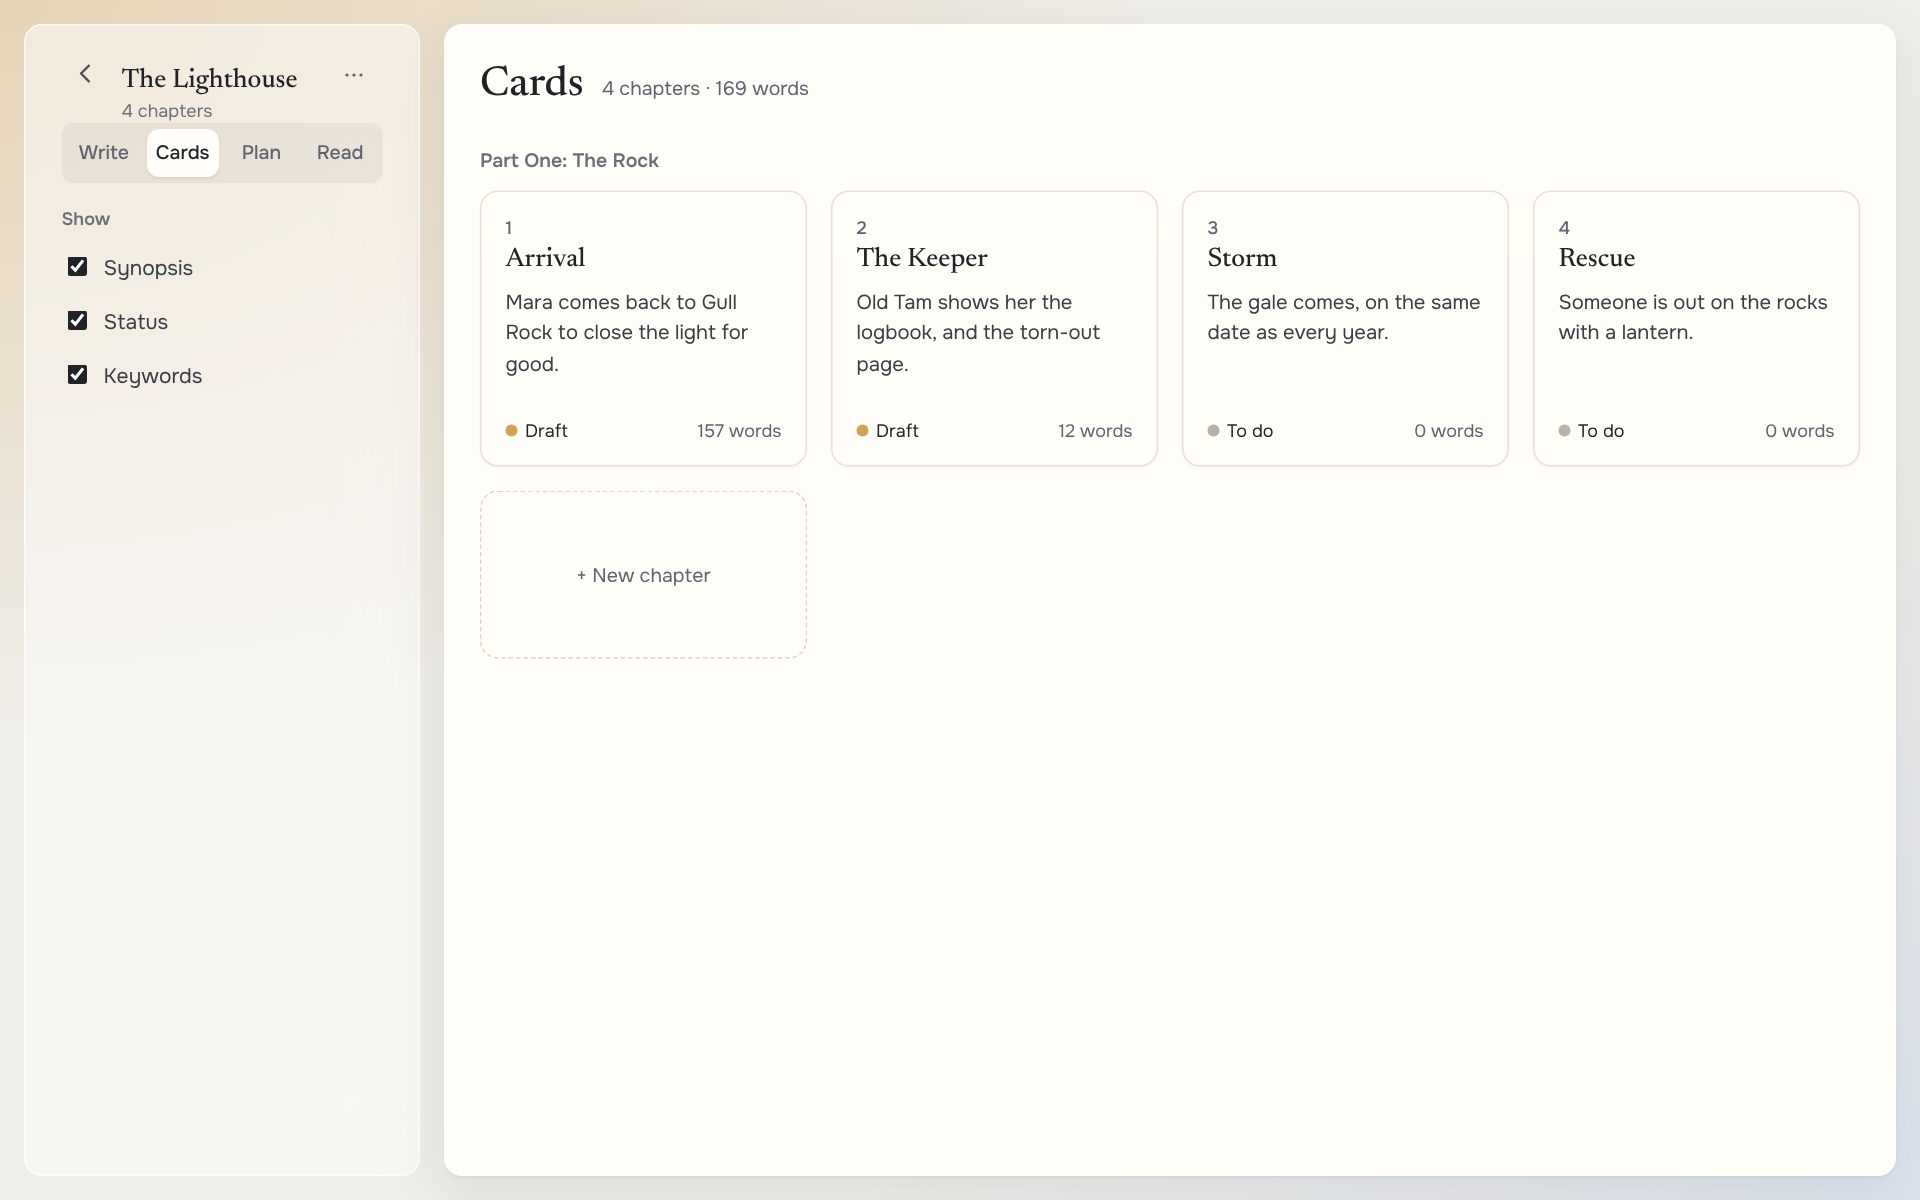
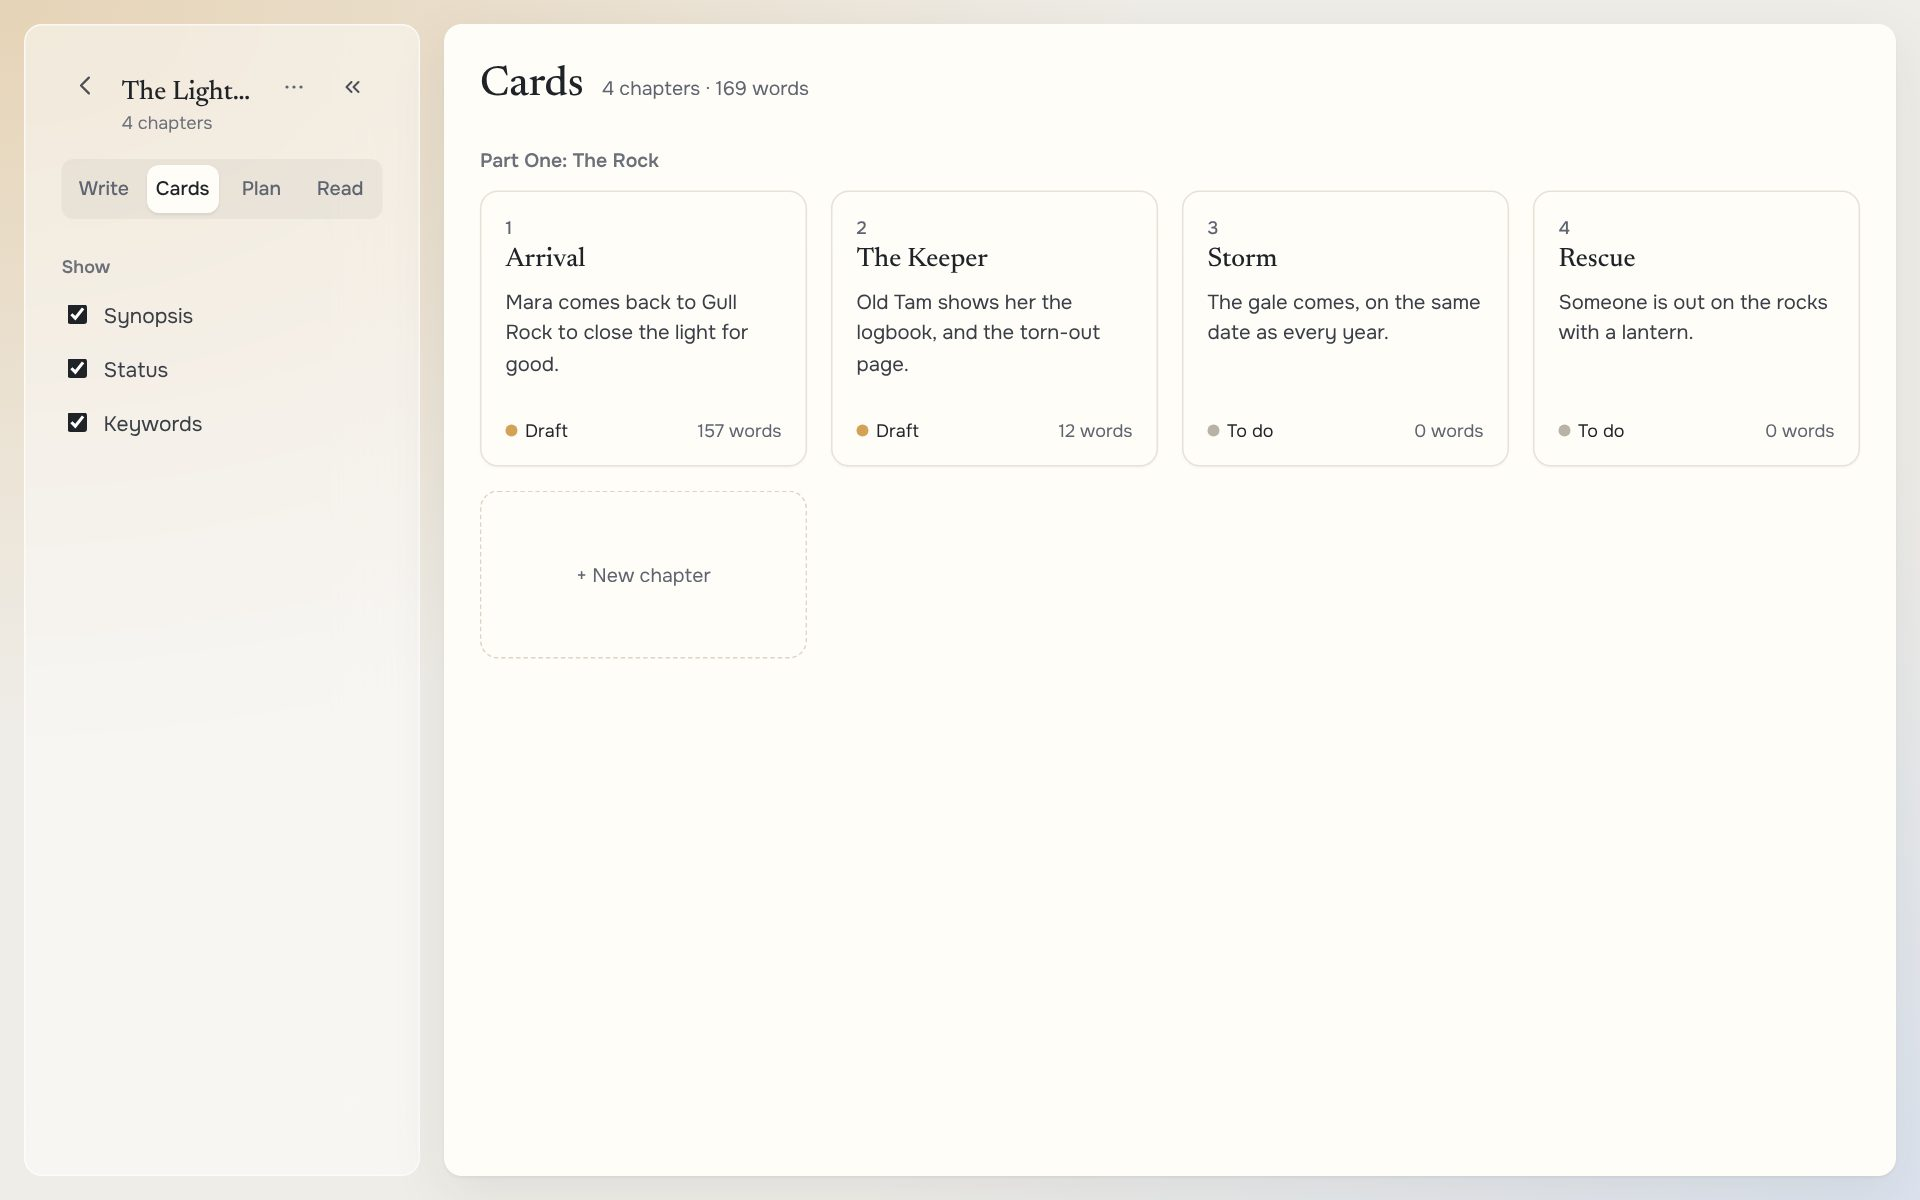
Fix tests for the new sidebar, keep Find anything's key in the search box, retake the guide's pictures
The strip's Open the sidebar brings a book's outline back too.

Claude-Session: https://claude.ai/code/session_01TSPRCvAApb82yB3Cd7pJYJ

Changed region(s): [[0.0312, 0.0617, 0.1875, 0.185], [0.0312, 0.3083, 0.0938, 0.37], [0.0312, 0.2158, 0.0938, 0.2775]]

diff --git a/app/tests/e2e/app.spec.ts b/app/tests/e2e/app.spec.ts
@@ -19,8 +19,17 @@ async function open(page: Page) {
   await expect(list(page)).toBeVisible();
 }
 
+/** Clicks New note: the full bar's button, or New → Note in the calm sidebar. */
+async function clickNewNote(page: Page) {
+  const calmNew = sidebar(page).getByRole('button', { name: 'New', exact: true });
+  if (await calmNew.count()) {
+    await calmNew.click();
+    await page.getByRole('dialog', { name: 'New' }).getByRole('button', { name: /^Note( |$)/ }).click();
+  } else await sidebar(page).getByRole('button', { name: 'New note', exact: true }).click();
+}
+
 async function newNote(page: Page, title: string, body = '') {
-  await sidebar(page).getByRole('button', { name: 'New note', exact: true }).click();
+  await clickNewNote(page);
   await expect(page.getByLabel('Title')).toBeFocused();
   await page.keyboard.type(title);
   if (body) {
@@ -1736,7 +1745,7 @@ test('pasting from a web page or Word keeps headings, lists and formatting', asy
 
 test('pasting a long piece into an empty note makes its first line the title', async ({ page }) => {
   await open(page);
-  await sidebar(page).getByRole('button', { name: 'New note', exact: true }).click();
+  await clickNewNote(page);
   await expect(page.getByLabel('Title')).toBeFocused();
   await page.keyboard.press('Enter');
   const story = 'The rain came down over the hills all night, and in the morning the river had climbed its banks and taken the old bridge with it. Nobody in the village had seen anything like it.';
@@ -1762,13 +1771,13 @@ test('pasting a long piece into an empty note makes its first line the title', a
   await expect(body.locator('h1')).toHaveText('The night the bridge went');
   await expect(body.locator('.blk')).toHaveCount(3);
   // Something short, or a first line that's a sentence, stays in the text.
-  await sidebar(page).getByRole('button', { name: 'New note', exact: true }).click();
+  await clickNewNote(page);
   await page.keyboard.press('Enter');
   await paste('.note-editor', '', `It rained all night.\n${story}`);
   await expect(page.getByLabel('Title')).toHaveValue('');
   await expect(body.locator('.blk').first()).toHaveText('It rained all night.');
   // Several lines pasted into an empty title box: the first stays there, the rest goes to the text.
-  await sidebar(page).getByRole('button', { name: 'New note', exact: true }).click();
+  await clickNewNote(page);
   await expect(page.getByLabel('Title')).toBeFocused();
   await paste('.note-title', '', 'Shopping\nEggs\nMilk');
   await expect(page.getByLabel('Title')).toHaveValue('Shopping');
@@ -5881,7 +5890,7 @@ test('the calm sidebar: Inbox, folded notebooks, search, and the menu at its foo
   const side = sidebar(page);
   // No bar across the top: search is in the sidebar, and the top bar is gone.
   await expect(page.locator('.topbar')).toHaveCount(0);
-  await expect(side.getByRole('button', { name: 'New note', exact: true })).toBeVisible();
+  await expect(side.getByRole('button', { name: 'New', exact: true })).toBeVisible();
   // The Inbox holds notes not in a notebook.
   await side.getByRole('button', { name: /^Inbox/ }).click();
   await expect(list(page).locator('h1')).toHaveText('Inbox');
@@ -5891,15 +5900,18 @@ test('the calm sidebar: Inbox, folded notebooks, search, and the menu at its foo
   await page.locator('.kicker-nb select').selectOption({ label: 'Ideas' });
   await side.getByRole('button', { name: /^Inbox/ }).click();
   await expect(list(page)).toContainText('Your inbox is clear');
-  // Notebooks fold under one row.
+  // Notebooks are listed under Organise, which folds away.
+  const organise = side.getByRole('region', { name: 'Organise' });
+  await organise.getByRole('button', { name: 'Organise' }).click();
   await expect(side.getByRole('button', { name: 'Ideas', exact: true })).toHaveCount(0);
-  await side.getByRole('button', { name: 'Notebooks', exact: true }).click();
+  await organise.getByRole('button', { name: 'Organise' }).click();
   await side.getByRole('button', { name: 'Ideas', exact: true }).click();
   await expect(list(page).locator('h1')).toHaveText('Ideas');
   // Typing in the sidebar's search filters the list; its key opens Find anything.
-  await side.getByPlaceholder('Search').fill('loose');
+  await side.getByRole('button', { name: 'Search', exact: true }).click();
+  await side.getByPlaceholder('Search notes').fill('loose');
   await expect(list(page).locator('h1')).toHaveText('Search results');
-  await side.getByPlaceholder('Search').fill('');
+  await side.getByPlaceholder('Search notes').fill('');
   await side.getByRole('button', { name: 'Find anything' }).click();
   await expect(page.getByRole('dialog').getByRole('combobox')).toBeVisible();
   await page.keyboard.press('Escape');
@@ -5998,7 +6010,7 @@ test('calm Settings, Find and a first visit, as designed', async ({ page }) => {
   // A first visit: the sidebar keeps to New note and All notes, with a word about the rest; three ways to start.
   const side = sidebar(page);
   await expect(side.getByRole('button', { name: 'Inbox' })).toHaveCount(0);
-  await expect(side).toContainText('Notebooks, tags and projects appear here once you make them.');
+  await expect(side).toContainText('Notebooks, tags and manuscripts appear here once you make them.');
   const welcome = page.getByRole('region', { name: 'Welcome' });
   await expect(welcome.getByRole('listitem')).toHaveCount(3);
   await expect(welcome.getByRole('button', { name: 'Take the two-minute tour' })).toBeVisible();
@@ -6277,7 +6289,7 @@ test.describe('on an iPad, in the calm look', () => {
     // The outline comes out beside it.
     await page.getByRole('button', { name: 'Show the outline' }).click();
     await expect(page.getByRole('region', { name: 'Outline' })).toBeVisible();
-    await page.getByRole('button', { name: 'Hide the outline' }).click();
+    await page.getByRole('region', { name: 'Chapter' }).getByRole('button', { name: 'Hide the outline' }).click();
     await expect(page.getByRole('region', { name: 'Outline' })).toHaveCount(0);
     // The inspector is a drawer at the foot.
     await page.getByRole('button', { name: 'Chapter options' }).click();

diff --git a/app/tests/e2e/drive.spec.ts b/app/tests/e2e/drive.spec.ts
@@ -69,7 +69,7 @@ test('connect Google Drive in two clicks, then a second device finds the same no
 
   await mac.keyboard.press('Escape');
   await sidebar(mac).getByRole('button', { name: 'New', exact: true }).click();
-  await mac.getByRole('dialog', { name: 'New' }).getByRole('button', { name: /^Note/ }).click();
+  await mac.getByRole('dialog', { name: 'New' }).getByRole('button', { name: /^Note( |$)/ }).click();
   await mac.keyboard.type('Hello Drive');
   await mac.keyboard.press('Enter');
   await mac.keyboard.type('Written on the Mac.');
@@ -142,7 +142,7 @@ test('keep notes in a folder on this computer: files written there, changes made
   await page.goto('/');
   await expect(page.getByRole('navigation', { name: 'Notebooks' })).toBeVisible();
   await sidebar(page).getByRole('button', { name: 'New', exact: true }).click();
-  await page.getByRole('dialog', { name: 'New' }).getByRole('button', { name: /^Note/ }).click();
+  await page.getByRole('dialog', { name: 'New' }).getByRole('button', { name: /^Note( |$)/ }).click();
   await page.keyboard.type('Harbour');
   await page.keyboard.press('Enter');
   await page.keyboard.type('The boats come in at dusk.');
@@ -204,7 +204,7 @@ test('closing the tab before the changes have synced asks first', async ({ brows
   expect(await asks()).toBe(false);
 
   await sidebar(page).getByRole('button', { name: 'New', exact: true }).click();
-  await page.getByRole('dialog', { name: 'New' }).getByRole('button', { name: /^Note/ }).click();
+  await page.getByRole('dialog', { name: 'New' }).getByRole('button', { name: /^Note( |$)/ }).click();
   await page.keyboard.type('Not yet synced');
   expect(await asks()).toBe(true);
   // Asking also syncs straight away, so once it's in the folder closing is fine again.
@@ -223,7 +223,7 @@ test('“Syncing…” shows while changes are on their way, then “Synced”, 
   const note = page.locator('.sync-note');
   // With the sidebar showing, its foot says it, so the note keeps out of the way.
   await sidebar(page).getByRole('button', { name: 'New', exact: true }).click();
-  await page.getByRole('dialog', { name: 'New' }).getByRole('button', { name: /^Note/ }).click();
+  await page.getByRole('dialog', { name: 'New' }).getByRole('button', { name: /^Note( |$)/ }).click();
   await page.keyboard.type('On its way');
   await expect(sidebar(page).locator('.side-foot')).toContainText('Syncing…');
   await expect(note).toHaveCount(0);
@@ -246,7 +246,7 @@ test('share a note with readers as a Google Doc, then bring their comments back 
   const drive = new FakeDrive();
   const page = await device(browser, drive);
   await sidebar(page).getByRole('button', { name: 'New', exact: true }).click();
-  await page.getByRole('dialog', { name: 'New' }).getByRole('button', { name: /^Note/ }).click();
+  await page.getByRole('dialog', { name: 'New' }).getByRole('button', { name: /^Note( |$)/ }).click();
   await page.keyboard.type('The Lighthouse');
   await page.keyboard.press('Enter');
   await page.keyboard.type('The lamp had not been lit. The keeper waited by the stove.');

diff --git a/app/tests/e2e/fixes.spec.ts b/app/tests/e2e/fixes.spec.ts
@@ -15,7 +15,7 @@ test('a title of several lines shows them all, even after the window narrows', a
   await page.goto('/');
   await expect(page.locator('.app')).toBeVisible();
   await sidebar(page).getByRole('button', { name: 'New', exact: true }).click();
-  await page.getByRole('dialog', { name: 'New' }).getByRole('button', { name: /^Note/ }).click();
+  await page.getByRole('dialog', { name: 'New' }).getByRole('button', { name: /^Note( |$)/ }).click();
   await page.keyboard.type('The keeper of the lighthouse on the far rock writes to his sister about the winter storms');
   expect(await whole(page, 'Title')).toBe(true);
   await page.setViewportSize({ width: 900, height: 720 });

diff --git a/app/src/ui/layout.tsx b/app/src/ui/layout.tsx
@@ -133,7 +133,7 @@ export function SidebarRail({ onOpenView, onNewNote, onToday }: { onOpenView(v: 
           title="Open the sidebar"
           onClick={() => {
             if (graphOpen) panes.closeActive();
-            store.updateLayout(state.view.kind === 'project' && (state.settings.layout?.sidebar ?? 'full') === 'full' ? { bookSidebar: 'full' } : { sidebar: 'full', list: true });
+            store.updateLayout(state.view.kind === 'project' && (state.settings.layout?.sidebar ?? 'full') === 'full' ? { bookSidebar: 'full', list: true } : { sidebar: 'full', list: true });
           }}
         >
           <IconSidebar size={18} />

diff --git a/app/tests/e2e/sidebar.spec.ts b/app/tests/e2e/sidebar.spec.ts
@@ -47,7 +47,7 @@ test('New makes notes, notebooks, stacks and manuscripts; a notebook goes into a
   const side = sidebar(page);
   const make = async (what: string, name?: string) => {
     await side.getByRole('button', { name: 'New', exact: true }).click();
-    await page.getByRole('dialog', { name: 'New' }).getByRole('button', { name: new RegExp(`^${what}`) }).click();
+    await page.getByRole('dialog', { name: 'New' }).getByRole('button', { name: what, exact: true }).click();
     if (name) {
       await page.keyboard.type(name);
       await page.keyboard.press('Enter');

diff --git a/app/src/ui/Sidebar.tsx b/app/src/ui/Sidebar.tsx
@@ -675,6 +675,11 @@ function SearchRow() {
           }
         }}
       />
+      {!state.query && (
+        <button type="button" className="find-key" aria-label="Find anything" title="Find anything: notes, chapters and commands" onMouseDown={(e) => e.preventDefault()} onClick={openFinder}>
+          {isMac ? '⌘K' : 'Ctrl K'}
+        </button>
+      )}
     </label>
   );
 }
